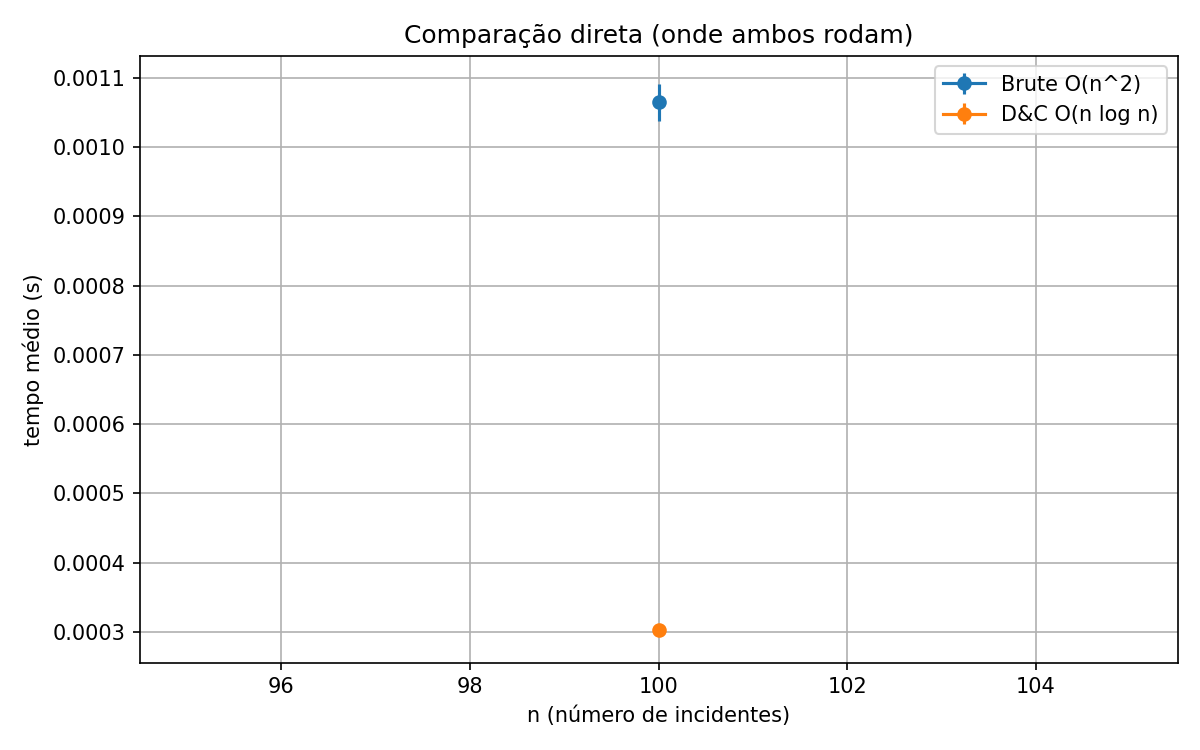
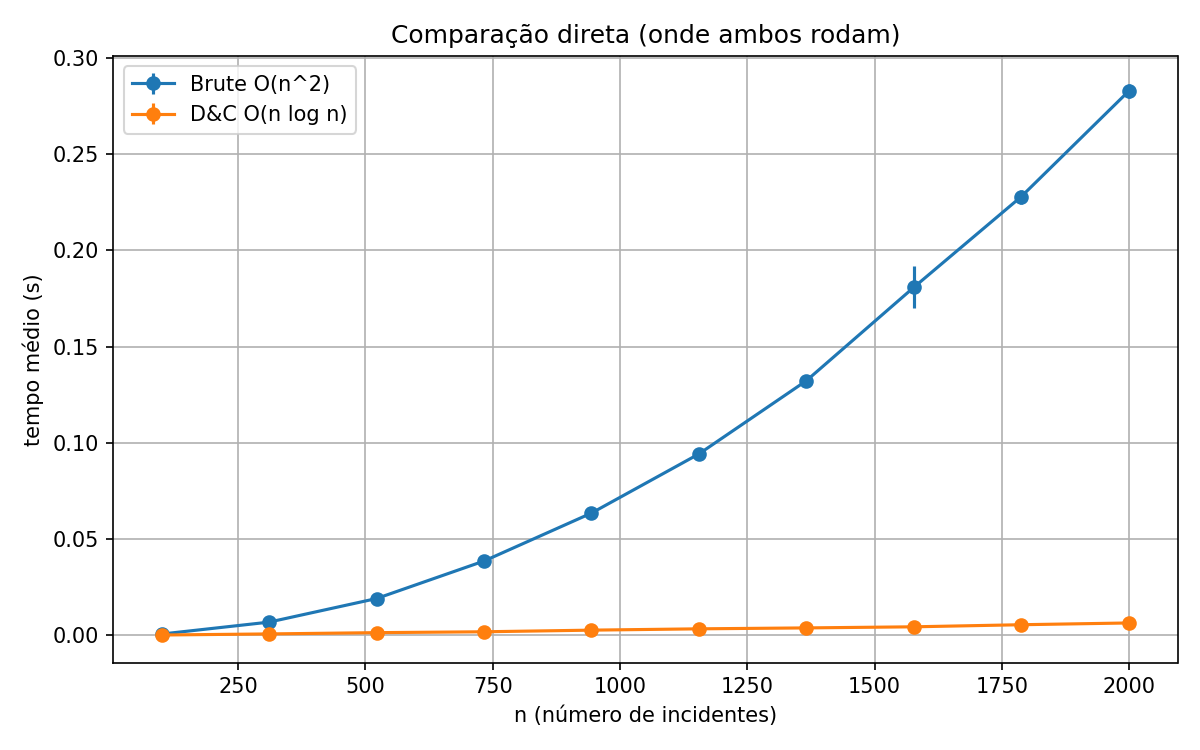
feat: Adiciona exemplo de entrada pequeno para testes

diff --git a/main.py b/main.py
@@ -12,9 +12,12 @@ if __name__ == "__main__":
     os.makedirs("results/figures", exist_ok=True)
 
     # sizes_all = linspace_int(10, 2000, 5)
-    sizes_all = linspace_int(100, 10_000, 20)
+    # sizes_all = linspace_int(100, 10_000, 20)
     # sizes_all = linspace_int(100, 1_000_000, 100)
-    sizes_small = [n for n in sizes_all if n <= 30_000]
+    # sizes_small = [n for n in sizes_all if n <= 30_000]
+
+    sizes_all = linspace_int(100, 2_000, 10)  # 10 tamanhos entre 100 e 2000
+    sizes_small = sizes_all  # brute e D&C rodam em todos
 
     dataset = make_dataset(mode="mixed")
 
